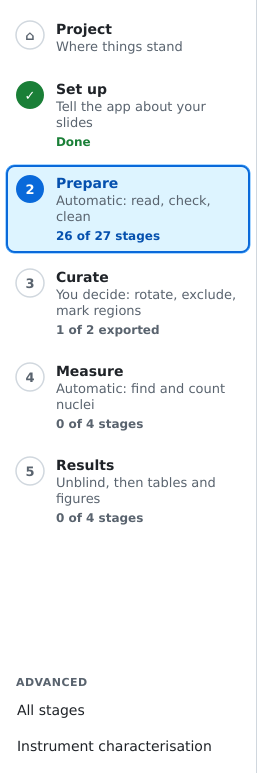
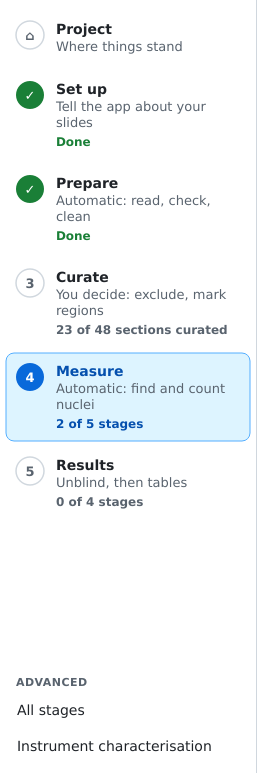
User guide: retake the screenshots after today's screen changes
The step screens changed today: plain stage names with no script number,
"N of M sections" for detection and curation, "Last run took" on each row,
the curation passes and coverage table on Curate, and the basic Set up view
with the sampling workbook and Check workbook. Nine of the guide's eleven
pictures showed the old screens; 07-measure still showed the out-of-date
banner and script numbers.

Retaken at 1360 x 860 (the step list at its own size) on a made-up three-
animal paired pERK/PCNA study with the bundled salmon plates and a real 04l
page: Project, Slides (one misnamed file in red), Microscope and channels,
Pictures, Prepare, Curate, Measure, Results and the step list. The Unblind box
and the ROI curator page are unchanged and kept.

The guide said each stage row shows its number, and that Curate is done once
exported; it now says what the screens show, and describes Check workbook,
the curation passes and coverage table, detection part way, the time left
and how long a stage last took.

Claude-Session: https://claude.ai/code/session_01P9HcDBeaV2QXivBevBe3Rv

diff --git a/docs/user-guide.md b/docs/user-guide.md
@@ -15,7 +15,7 @@ The step list on the left shows six screens in the order you work, each with a o
 | ⌂ | **Project** | Open or create your study's project. Read the **Next up** card (if settings are missing, it names each Set up card and what it lacks) and press **Go**. | You know which screen to go to next. |
 | 1 | **Set up** | Check the few cards it shows: the folders, the file names, the section thickness and markers, and the atlas. Everything the slide files can tell the app is already filled in; the rest is under **Show advanced settings**. Press **Apply** on any card you change. | No red rows on the Slides tab, and the step list says every card is applied. |
 | 2 | **Prepare** | Press **Run all remaining**. It runs straight through to the ROI curator. | The step list shows Prepare done and Next up sends you to Curate. |
-| 3 | **Curate** | In the ROI curator, bring back any section that was set aside by mistake, match each section to its atlas plate and draw the brain regions. Then press **Done: export and go to Measure**. | The curator is exported. |
+| 3 | **Curate** | In the ROI curator, bring back any section that was set aside by mistake, match each section to its atlas plate and draw the brain regions. Then press **Done: export and go to Measure**. | Every section is curated or excluded, for each marker (the step list counts them, for example *23 of 48 sections curated*). |
 | 4 | **Measure** | Press **Run all remaining**. It first checks signal quality and tunes detection (05b); nucleus detection then takes hours and can be stopped and resumed. If the signal check calls a marker's signal *poor*, the run stops before detection: read the report (**Open report**), then press **Run** on *Detect and measure nuclei* to carry on anyway. | Every section is measured. |
 | 5 | **Results** | Press **Run** on *Join the experiment*, check the sampling workbook in the box that opens and press **Unblind and run**. Then press **Run all remaining** for the spreadsheets (the R figures are switched off for now). | `roi_dataset.xlsx` is in your results folder. |
 
@@ -81,13 +81,13 @@ Nucleus detection needs StarDist. The installer and `work/appenv` both have it. 
 - **Step list (left).** The six screens, each with a numbered circle, a one-line description and a progress mark such as *5 of 6 cards* or *10 of 19 stages*. A finished step turns green with a tick; the current one is blue. Progress is read from the output folder, so it is right even for work done outside the app. Under **Advanced** at the foot are *All stages* and *Instrument characterisation*.
 - **Screen header.** The screen's title and (i), a short sentence on what it is for, and a blue **Your part** box saying what you do there.
 - **Notices.** An amber box above the stages warns you about something to fix first.
-- **Stage rows.** Each stage shows a status dot (green done, grey to do, purple waiting for you, blue running, red failed, amber waiting or out of date), its name, its number (for example `04g`) and one plain sentence on what it does. Its buttons are:
+- **Stage rows.** Each stage shows a status dot (green done, grey to do, purple waiting for you, blue running, red failed, amber waiting or out of date), its name in plain words and one plain sentence on what it does. The six step screens leave out the stage's number and the pipeline's own name; hold the pointer over the name to see them (for example `00d  CZI self-test`), or open *All stages*, which shows both. The tables in this guide give the number and the pipeline's name. Under the status, a stage whose last complete run took a minute or more says how long, for example *Last run took 3 h 12 min*. Its buttons are:
   - **Run** runs that stage on its own; once a stage is done the button says Redo. A stage that is *Out of date* (see *Out of date*, section 10) says Run again. On a curator stage the button says **Build page**.
   - **Open** shows a curator page. Stages that make pictures or results have their own Open button instead: *Open pictures*, *Open sheets* or *Open results* opens that folder.
   - **Options** lists the stage's switches. It says *Options (2 changed)* when you have changed any.
   - **(i)** explains what the stage needs first, what it leaves behind, when it last ran, and the technical detail underneath.
 - **Run all remaining.** On Prepare, Measure and Results, runs every stage on that screen that has not finished or is out of date, in order. It stops at the first failure and never runs past a curator you have not exported. On Measure it also stops before nucleus detection when the signal check finds a marker's signal *poor* (section 7). It never unblinds: that always waits for you to press it and confirm. It also leaves out the scene pictures, which you run on their own.
-- **Status bar (bottom).** Shows what is running and its last log line, with a progress bar that also appears on the running stage's row. It slides until the stage reports a count, then fills, for example 12 of 454 sections (3%). When a run finishes, it says if a stage could not make everything (for example *3 scenes not drawn, see log*). **Show log** opens the full log; **Stop after this stage** finishes the current stage cleanly and stops.
+- **Status bar (bottom).** Shows what is running and its last log line, with a progress bar that also appears on the running stage's row. It slides until the stage reports a count, then fills, for example 12 of 454 sections (3%). Once the stage has been counting for a little while it adds the time left, for example *12 of 454 sections (3%), about 2 h 10 min left*. When a run finishes, it says if a stage could not make everything (for example *3 scenes not drawn, see log*). **Show log** opens the full log; **Stop after this stage** finishes the current stage cleanly and stops.
 
 ![The step list: six steps with their descriptions and progress, and the Advanced group at the foot](img/user-guide/10-step-list.png)
 
@@ -140,6 +140,8 @@ Everything the headers say is kept, not only what was used. A summary goes into 
 
 Once a folder is set, the top of the Slides tab says which folder the study reads and how many files the slide headers list. The tab gets a ✓, and counts as done on Home, only when the slides have been read, every file name fits the rule and every marker has a real name (not *Marker1* or *Channel2*). Until then it says what is left under *Still to do on this tab*, for example *2 file names don't fit the rule (Slide file names)* or *name the markers (Microscope and channels > Channels and markers...)*; the Next up card on Home says the same. For the LS study that is 444 files from `D:\SLIDES HE DEC 2025 LS`. Use the buttons only to change it.
 
+**Sampling workbook** names the workbook Results will read to unblind (section 8); leave it empty to use the one in the slide folder. **Check workbook** tries the join now, without unblinding anything: it reads the workbook, matches it against the study's animals and slides, writes nothing and reports how many animals and slides it matched to a group, any animal with no row, and any blank group. Use it early, so a mismatch is fixed before the measuring is done.
+
 Choosing a folder only records where the slides are; nothing is moved. Picking separate files from one folder records a list, which costs no space. If the files are spread over several folders, the app offers to link or copy them and always shows the size first.
 
 ### Study and folders
@@ -155,7 +157,7 @@ Choosing a folder only records where the slides are; nothing is moved. Picking s
 
 The app reads which animal and slide each file is from its name, and builds the section ID (`scene_uid`, for example `LS105_s10a_sc03`) that every later table joins on.
 
-- **Filename pattern.** Usually filled in for you from the slides. To set it yourself press **Set up from an example…**. Type one of your file names (or pick one). The app splits it into pieces and shows its reading, for example *animal LS53 · slide 2 · replicate b*; to change it, press **Animal ID**, **Slide number** or **Replicate letter** and click the piece in the name (**Not in the name** if there is none). The app writes the pattern and checks it against every file. When some files do not fit, it tries the usual causes one at a time (upper/lower case, a different ending such as `-_A568`, a missing replicate letter, other separators) and lists each change it made and how many files it brought in. Files that still do not fit are listed with the likely reason. The pattern itself stays hidden unless you tick **Show the pattern**.
+- **Filename pattern.** Usually filled in for you from the slides. To set it yourself press **Set up from an example…**. Type one of your file names (or pick one). The app splits it into pieces and shows its reading, for example *animal LS53 · slide 2 · replicate b*; to change it, press **Animal ID**, **Slide number** or **Replicate letter** and click the piece in the name (**Not in the name** if there is none). The app writes the pattern and checks it against every file. When some files do not fit, it tries the usual causes one at a time (upper/lower case, a different ending such as `-_A568`, a missing replicate letter, other separators) and lists each change it made and how many files it brought in. Files that still do not fit are listed with the likely reason. The pattern itself stays hidden unless you tick **Show the pattern**. On the card, the rule is shown as the reading of the example, for example *LS53_2.czi reads as animal LS53 · slide 2*; tick **Show advanced settings** to see the pattern there.
 - **Example filename.** One real name, used for that preview.
 - **Case-insensitive names.** On by default; leave it on.
 - **Section order convention.** How the order of serial sections is worked out. There is one choice, scan order.
@@ -174,6 +176,8 @@ In the LS study the pattern also accepts a suffix after a dash, so a name such a
 | Acquisition layout | **multiplex**: one scan holds every marker. **paired**: one scan per marker, each with its own counterstain. | paired: pERK (AF568) and PCNA (AF488) were scanned separately, listed in that order under Markers |
 | Counterstain colour | How DAPI is drawn in pictures | blue |
 | DAPI index, Marker index | Which channel in the CZI file is which | 0 and 1 |
+
+Without **Show advanced settings** this card shows only the section thickness, **Channels and markers…** and, in a paired study, **Find nuclei**; the rest are read from the slides.
 
 **Channels and markers…** opens a table of channels. **Detect from a CZI file…** reads each channel's dye and colour from a real slide and fills the table in. The file knows the dye, not the antibody, so you type or pick the marker name yourself. A marker's name becomes part of folder and file names, so the app asks before you rename one.
 
@@ -343,6 +347,10 @@ The buttons above the page are:
 
 The Curate screen also offers **Continue Prepare** after the atlas plate boxes, and **Bring in browser exports** if you curated in a web browser.
 
+Under the ROI curator's row, once there is an export, the screen says how far each marker's curation has got, for example *pERK curation ● 17 of 24 sections curated*. An excluded section counts as decided. In a paired study the second marker (PCNA) is curated on its own, in the same page: choose it in the curator's *Marker* menu. Its sections are separate physical sections, so nothing decided for one marker reaches the other. Curate is done when every section of both is curated or excluded.
+
+Below that, a **coverage** table for each marker shows how many curated sections each animal (rows) has at each atlas plate (columns). A cell under the target is amber. The target is one section per animal and plate unless you change *Target sections per animal and level* (Set up > Show advanced settings > Curation). It is a goal to curate towards; nothing is held back below it.
+
 ![The Curate screen with the ROI curator inside the app. Done: export and go to Measure is in the bar above the page](img/user-guide/06-curate.png)
 
 In every curator, **a dashed amber border is a proposal the program made; a solid red border is a decision a person made.**
@@ -423,7 +431,9 @@ Measure puts your regions back onto the original slides, finds every nucleus ins
 
 > **Results from before the ROI fixes of 14 October 2026.** If your regions were placed, or your nuclei measured, before the fixes to region placement (half a pixel) and to the saturated-nucleus flag (now read from the scan's own pixels), *Place the ROIs on the slide* and *Detect and measure nuclei* show **Out of date** and say why. Press **Run all remaining**: it places the regions again, measures every section again and rebuilds the per-region table. Then rebuild Results.
 
-![The Measure screen](img/user-guide/07-measure.png)
+> **Detection part way.** Detection keeps every section it has finished, so a run you stopped part way is not done. Its row then says how far it has got, for example *Detection 9 of 15 sections, resume*, and so does the Next up card. **Run all remaining** carries on from there; finished sections are not measured again.
+
+![The Measure screen: the regions placed and the signal checked, detection 9 of 15 sections and ready to resume, each with how long its last run took](img/user-guide/07-measure.png)
 
 | Stage | What it does | Makes | Options |
 | --- | --- | --- | --- |
@@ -516,7 +526,7 @@ Pressing **Run** on *Join the experiment (06b, marked ⚠ unblinds; its button r
 
 ![The Unblind the analysis? box, with the sampling workbook field](img/user-guide/09-unblind-dialog.png)
 
-![The Results screen: Join the experiment is marked as unblinding, then the spreadsheet and figure stages](img/user-guide/08-results.png)
+![The Results screen: Join the experiment is marked as unblinding, then the spreadsheet stages](img/user-guide/08-results.png)
 
 | Stage | What it does | Makes |
 | --- | --- | --- |
